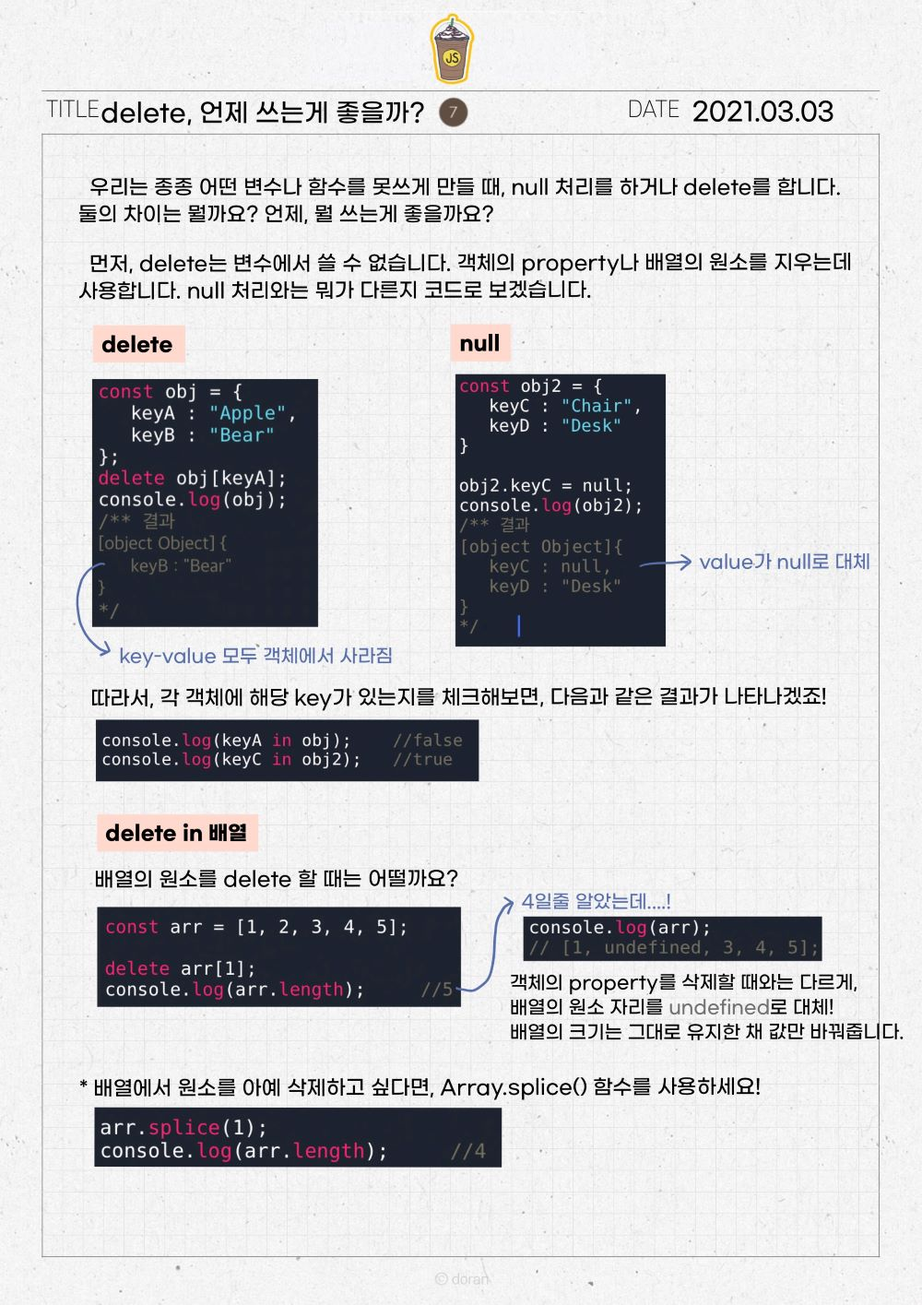
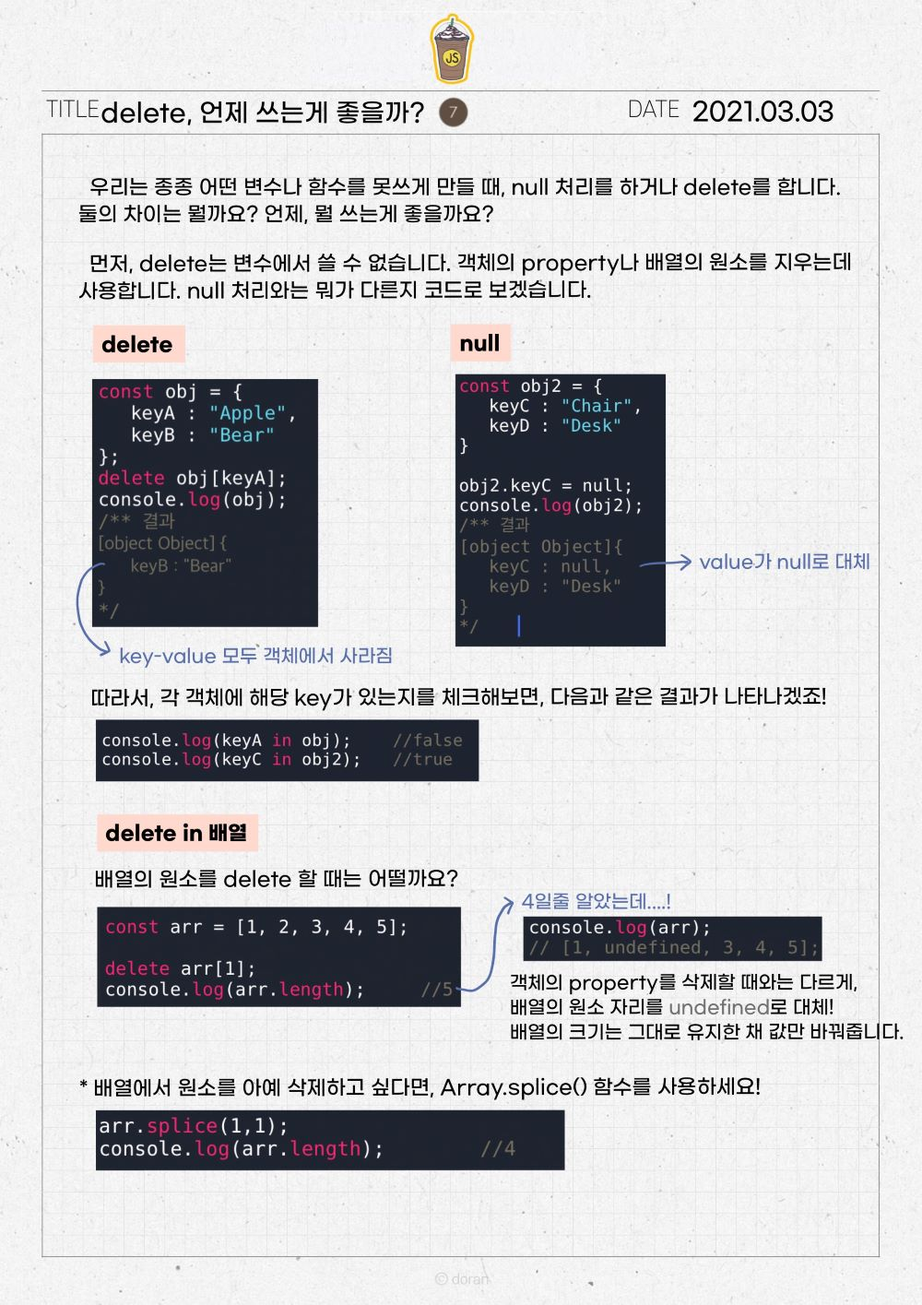
7. delete splice 예시문 수정

Changed region(s): [[0.093, 0.8396, 0.434, 0.9018], [0.465, 0.8396, 0.62, 0.9018]]

diff --git a/_book/pages/06.html b/_book/pages/06.html
@@ -287,7 +287,7 @@
     <script>
         var gitbook = gitbook || [];
         gitbook.push(function() {
-            gitbook.page.hasChanged({"page":{"title":"06. 함수를 정의하는 두가지 방법","level":"1.7","depth":1,"next":{"title":"07. delete, 언제 쓰는게 좋을까?","level":"1.8","depth":1,"path":"pages/07.md","ref":"pages/07.md","articles":[]},"previous":{"title":"05. 동일 연산자 제대로 쓰기","level":"1.6","depth":1,"path":"pages/05.md","ref":"pages/05.md","articles":[]},"dir":"ltr"},"config":{"gitbook":"*","theme":"default","variables":{"BASE_URL":"https://team-under-dev.github.io"},"plugins":["-sharing"],"pluginsConfig":{"highlight":{},"search":{},"lunr":{"maxIndexSize":1000000,"ignoreSpecialCharacters":false},"fontsettings":{"theme":"white","family":"sans","size":2},"theme-default":{"styles":{"website":"styles/website.css","pdf":"styles/pdf.css","epub":"styles/epub.css","mobi":"styles/mobi.css","ebook":"styles/ebook.css","print":"styles/print.css"},"showLevel":false}},"structure":{"langs":"LANGS.md","readme":"README.md","glossary":"GLOSSARY.md","summary":"SUMMARY.md"},"pdf":{"pageNumbers":true,"fontSize":12,"fontFamily":"Arial","paperSize":"a4","chapterMark":"pagebreak","pageBreaksBefore":"/","margin":{"right":62,"left":62,"top":56,"bottom":56}},"styles":{"website":"styles/website.css","pdf":"styles/pdf.css","epub":"styles/epub.css","mobi":"styles/mobi.css","ebook":"styles/ebook.css","print":"styles/print.css"}},"file":{"path":"pages/06.md","mtime":"2021-03-02T01:11:13.592Z","type":"markdown"},"gitbook":{"version":"3.2.3","time":"2021-03-03T00:04:25.139Z"},"basePath":"..","book":{"language":""}});
+            gitbook.page.hasChanged({"page":{"title":"06. 함수를 정의하는 두가지 방법","level":"1.7","depth":1,"next":{"title":"07. delete, 언제 쓰는게 좋을까?","level":"1.8","depth":1,"path":"pages/07.md","ref":"pages/07.md","articles":[]},"previous":{"title":"05. 동일 연산자 제대로 쓰기","level":"1.6","depth":1,"path":"pages/05.md","ref":"pages/05.md","articles":[]},"dir":"ltr"},"config":{"gitbook":"*","theme":"default","variables":{"BASE_URL":"https://team-under-dev.github.io"},"plugins":["-sharing"],"pluginsConfig":{"highlight":{},"search":{},"lunr":{"maxIndexSize":1000000,"ignoreSpecialCharacters":false},"fontsettings":{"theme":"white","family":"sans","size":2},"theme-default":{"styles":{"website":"styles/website.css","pdf":"styles/pdf.css","epub":"styles/epub.css","mobi":"styles/mobi.css","ebook":"styles/ebook.css","print":"styles/print.css"},"showLevel":false}},"structure":{"langs":"LANGS.md","readme":"README.md","glossary":"GLOSSARY.md","summary":"SUMMARY.md"},"pdf":{"pageNumbers":true,"fontSize":12,"fontFamily":"Arial","paperSize":"a4","chapterMark":"pagebreak","pageBreaksBefore":"/","margin":{"right":62,"left":62,"top":56,"bottom":56}},"styles":{"website":"styles/website.css","pdf":"styles/pdf.css","epub":"styles/epub.css","mobi":"styles/mobi.css","ebook":"styles/ebook.css","print":"styles/print.css"}},"file":{"path":"pages/06.md","mtime":"2021-03-03T00:05:04.584Z","type":"markdown"},"gitbook":{"version":"3.2.3","time":"2021-03-03T02:09:58.810Z"},"basePath":"..","book":{"language":""}});
         });
     </script>
 </div>

diff --git a/pages/06.html b/pages/06.html
@@ -287,7 +287,7 @@
     <script>
         var gitbook = gitbook || [];
         gitbook.push(function() {
-            gitbook.page.hasChanged({"page":{"title":"06. 함수를 정의하는 두가지 방법","level":"1.7","depth":1,"next":{"title":"07. delete, 언제 쓰는게 좋을까?","level":"1.8","depth":1,"path":"pages/07.md","ref":"pages/07.md","articles":[]},"previous":{"title":"05. 동일 연산자 제대로 쓰기","level":"1.6","depth":1,"path":"pages/05.md","ref":"pages/05.md","articles":[]},"dir":"ltr"},"config":{"gitbook":"*","theme":"default","variables":{"BASE_URL":"https://team-under-dev.github.io"},"plugins":["-sharing"],"pluginsConfig":{"highlight":{},"search":{},"lunr":{"maxIndexSize":1000000,"ignoreSpecialCharacters":false},"fontsettings":{"theme":"white","family":"sans","size":2},"theme-default":{"styles":{"website":"styles/website.css","pdf":"styles/pdf.css","epub":"styles/epub.css","mobi":"styles/mobi.css","ebook":"styles/ebook.css","print":"styles/print.css"},"showLevel":false}},"structure":{"langs":"LANGS.md","readme":"README.md","glossary":"GLOSSARY.md","summary":"SUMMARY.md"},"pdf":{"pageNumbers":true,"fontSize":12,"fontFamily":"Arial","paperSize":"a4","chapterMark":"pagebreak","pageBreaksBefore":"/","margin":{"right":62,"left":62,"top":56,"bottom":56}},"styles":{"website":"styles/website.css","pdf":"styles/pdf.css","epub":"styles/epub.css","mobi":"styles/mobi.css","ebook":"styles/ebook.css","print":"styles/print.css"}},"file":{"path":"pages/06.md","mtime":"2021-03-02T01:11:13.592Z","type":"markdown"},"gitbook":{"version":"3.2.3","time":"2021-03-03T00:04:25.139Z"},"basePath":"..","book":{"language":""}});
+            gitbook.page.hasChanged({"page":{"title":"06. 함수를 정의하는 두가지 방법","level":"1.7","depth":1,"next":{"title":"07. delete, 언제 쓰는게 좋을까?","level":"1.8","depth":1,"path":"pages/07.md","ref":"pages/07.md","articles":[]},"previous":{"title":"05. 동일 연산자 제대로 쓰기","level":"1.6","depth":1,"path":"pages/05.md","ref":"pages/05.md","articles":[]},"dir":"ltr"},"config":{"gitbook":"*","theme":"default","variables":{"BASE_URL":"https://team-under-dev.github.io"},"plugins":["-sharing"],"pluginsConfig":{"highlight":{},"search":{},"lunr":{"maxIndexSize":1000000,"ignoreSpecialCharacters":false},"fontsettings":{"theme":"white","family":"sans","size":2},"theme-default":{"styles":{"website":"styles/website.css","pdf":"styles/pdf.css","epub":"styles/epub.css","mobi":"styles/mobi.css","ebook":"styles/ebook.css","print":"styles/print.css"},"showLevel":false}},"structure":{"langs":"LANGS.md","readme":"README.md","glossary":"GLOSSARY.md","summary":"SUMMARY.md"},"pdf":{"pageNumbers":true,"fontSize":12,"fontFamily":"Arial","paperSize":"a4","chapterMark":"pagebreak","pageBreaksBefore":"/","margin":{"right":62,"left":62,"top":56,"bottom":56}},"styles":{"website":"styles/website.css","pdf":"styles/pdf.css","epub":"styles/epub.css","mobi":"styles/mobi.css","ebook":"styles/ebook.css","print":"styles/print.css"}},"file":{"path":"pages/06.md","mtime":"2021-03-03T00:05:04.584Z","type":"markdown"},"gitbook":{"version":"3.2.3","time":"2021-03-03T02:09:58.810Z"},"basePath":"..","book":{"language":""}});
         });
     </script>
 </div>

diff --git a/_book/pages/02.html b/_book/pages/02.html
@@ -287,7 +287,7 @@
     <script>
         var gitbook = gitbook || [];
         gitbook.push(function() {
-            gitbook.page.hasChanged({"page":{"title":"02. 자바스크립트 Scope 이해하기","level":"1.3","depth":1,"next":{"title":"03. var 대신 let만 쓰라구요? 왜요?","level":"1.4","depth":1,"path":"pages/03.md","ref":"pages/03.md","articles":[]},"previous":{"title":"01. 전역변수는 왜 나쁠까?","level":"1.2","depth":1,"path":"pages/01.md","ref":"pages/01.md","articles":[]},"dir":"ltr"},"config":{"gitbook":"*","theme":"default","variables":{"BASE_URL":"https://team-under-dev.github.io"},"plugins":["-sharing"],"pluginsConfig":{"highlight":{},"search":{},"lunr":{"maxIndexSize":1000000,"ignoreSpecialCharacters":false},"fontsettings":{"theme":"white","family":"sans","size":2},"theme-default":{"styles":{"website":"styles/website.css","pdf":"styles/pdf.css","epub":"styles/epub.css","mobi":"styles/mobi.css","ebook":"styles/ebook.css","print":"styles/print.css"},"showLevel":false}},"structure":{"langs":"LANGS.md","readme":"README.md","glossary":"GLOSSARY.md","summary":"SUMMARY.md"},"pdf":{"pageNumbers":true,"fontSize":12,"fontFamily":"Arial","paperSize":"a4","chapterMark":"pagebreak","pageBreaksBefore":"/","margin":{"right":62,"left":62,"top":56,"bottom":56}},"styles":{"website":"styles/website.css","pdf":"styles/pdf.css","epub":"styles/epub.css","mobi":"styles/mobi.css","ebook":"styles/ebook.css","print":"styles/print.css"}},"file":{"path":"pages/02.md","mtime":"2021-03-02T01:11:13.582Z","type":"markdown"},"gitbook":{"version":"3.2.3","time":"2021-03-03T00:04:25.139Z"},"basePath":"..","book":{"language":""}});
+            gitbook.page.hasChanged({"page":{"title":"02. 자바스크립트 Scope 이해하기","level":"1.3","depth":1,"next":{"title":"03. var 대신 let만 쓰라구요? 왜요?","level":"1.4","depth":1,"path":"pages/03.md","ref":"pages/03.md","articles":[]},"previous":{"title":"01. 전역변수는 왜 나쁠까?","level":"1.2","depth":1,"path":"pages/01.md","ref":"pages/01.md","articles":[]},"dir":"ltr"},"config":{"gitbook":"*","theme":"default","variables":{"BASE_URL":"https://team-under-dev.github.io"},"plugins":["-sharing"],"pluginsConfig":{"highlight":{},"search":{},"lunr":{"maxIndexSize":1000000,"ignoreSpecialCharacters":false},"fontsettings":{"theme":"white","family":"sans","size":2},"theme-default":{"styles":{"website":"styles/website.css","pdf":"styles/pdf.css","epub":"styles/epub.css","mobi":"styles/mobi.css","ebook":"styles/ebook.css","print":"styles/print.css"},"showLevel":false}},"structure":{"langs":"LANGS.md","readme":"README.md","glossary":"GLOSSARY.md","summary":"SUMMARY.md"},"pdf":{"pageNumbers":true,"fontSize":12,"fontFamily":"Arial","paperSize":"a4","chapterMark":"pagebreak","pageBreaksBefore":"/","margin":{"right":62,"left":62,"top":56,"bottom":56}},"styles":{"website":"styles/website.css","pdf":"styles/pdf.css","epub":"styles/epub.css","mobi":"styles/mobi.css","ebook":"styles/ebook.css","print":"styles/print.css"}},"file":{"path":"pages/02.md","mtime":"2021-03-03T00:05:04.572Z","type":"markdown"},"gitbook":{"version":"3.2.3","time":"2021-03-03T02:09:58.810Z"},"basePath":"..","book":{"language":""}});
         });
     </script>
 </div>

diff --git a/_book/pages/03.html b/_book/pages/03.html
@@ -288,7 +288,7 @@
     <script>
         var gitbook = gitbook || [];
         gitbook.push(function() {
-            gitbook.page.hasChanged({"page":{"title":"03. var 대신 let만 쓰라구요? 왜요?","level":"1.4","depth":1,"next":{"title":"04. 클로저가 도대체 뭘까?","level":"1.5","depth":1,"path":"pages/04.md","ref":"pages/04.md","articles":[]},"previous":{"title":"02. 자바스크립트 Scope 이해하기","level":"1.3","depth":1,"path":"pages/02.md","ref":"pages/02.md","articles":[]},"dir":"ltr"},"config":{"gitbook":"*","theme":"default","variables":{"BASE_URL":"https://team-under-dev.github.io"},"plugins":["-sharing"],"pluginsConfig":{"highlight":{},"search":{},"lunr":{"maxIndexSize":1000000,"ignoreSpecialCharacters":false},"fontsettings":{"theme":"white","family":"sans","size":2},"theme-default":{"styles":{"website":"styles/website.css","pdf":"styles/pdf.css","epub":"styles/epub.css","mobi":"styles/mobi.css","ebook":"styles/ebook.css","print":"styles/print.css"},"showLevel":false}},"structure":{"langs":"LANGS.md","readme":"README.md","glossary":"GLOSSARY.md","summary":"SUMMARY.md"},"pdf":{"pageNumbers":true,"fontSize":12,"fontFamily":"Arial","paperSize":"a4","chapterMark":"pagebreak","pageBreaksBefore":"/","margin":{"right":62,"left":62,"top":56,"bottom":56}},"styles":{"website":"styles/website.css","pdf":"styles/pdf.css","epub":"styles/epub.css","mobi":"styles/mobi.css","ebook":"styles/ebook.css","print":"styles/print.css"}},"file":{"path":"pages/03.md","mtime":"2021-03-02T01:11:13.584Z","type":"markdown"},"gitbook":{"version":"3.2.3","time":"2021-03-03T00:04:25.139Z"},"basePath":"..","book":{"language":""}});
+            gitbook.page.hasChanged({"page":{"title":"03. var 대신 let만 쓰라구요? 왜요?","level":"1.4","depth":1,"next":{"title":"04. 클로저가 도대체 뭘까?","level":"1.5","depth":1,"path":"pages/04.md","ref":"pages/04.md","articles":[]},"previous":{"title":"02. 자바스크립트 Scope 이해하기","level":"1.3","depth":1,"path":"pages/02.md","ref":"pages/02.md","articles":[]},"dir":"ltr"},"config":{"gitbook":"*","theme":"default","variables":{"BASE_URL":"https://team-under-dev.github.io"},"plugins":["-sharing"],"pluginsConfig":{"highlight":{},"search":{},"lunr":{"maxIndexSize":1000000,"ignoreSpecialCharacters":false},"fontsettings":{"theme":"white","family":"sans","size":2},"theme-default":{"styles":{"website":"styles/website.css","pdf":"styles/pdf.css","epub":"styles/epub.css","mobi":"styles/mobi.css","ebook":"styles/ebook.css","print":"styles/print.css"},"showLevel":false}},"structure":{"langs":"LANGS.md","readme":"README.md","glossary":"GLOSSARY.md","summary":"SUMMARY.md"},"pdf":{"pageNumbers":true,"fontSize":12,"fontFamily":"Arial","paperSize":"a4","chapterMark":"pagebreak","pageBreaksBefore":"/","margin":{"right":62,"left":62,"top":56,"bottom":56}},"styles":{"website":"styles/website.css","pdf":"styles/pdf.css","epub":"styles/epub.css","mobi":"styles/mobi.css","ebook":"styles/ebook.css","print":"styles/print.css"}},"file":{"path":"pages/03.md","mtime":"2021-03-03T00:05:04.576Z","type":"markdown"},"gitbook":{"version":"3.2.3","time":"2021-03-03T02:09:58.810Z"},"basePath":"..","book":{"language":""}});
         });
     </script>
 </div>

diff --git a/pages/02.html b/pages/02.html
@@ -287,7 +287,7 @@
     <script>
         var gitbook = gitbook || [];
         gitbook.push(function() {
-            gitbook.page.hasChanged({"page":{"title":"02. 자바스크립트 Scope 이해하기","level":"1.3","depth":1,"next":{"title":"03. var 대신 let만 쓰라구요? 왜요?","level":"1.4","depth":1,"path":"pages/03.md","ref":"pages/03.md","articles":[]},"previous":{"title":"01. 전역변수는 왜 나쁠까?","level":"1.2","depth":1,"path":"pages/01.md","ref":"pages/01.md","articles":[]},"dir":"ltr"},"config":{"gitbook":"*","theme":"default","variables":{"BASE_URL":"https://team-under-dev.github.io"},"plugins":["-sharing"],"pluginsConfig":{"highlight":{},"search":{},"lunr":{"maxIndexSize":1000000,"ignoreSpecialCharacters":false},"fontsettings":{"theme":"white","family":"sans","size":2},"theme-default":{"styles":{"website":"styles/website.css","pdf":"styles/pdf.css","epub":"styles/epub.css","mobi":"styles/mobi.css","ebook":"styles/ebook.css","print":"styles/print.css"},"showLevel":false}},"structure":{"langs":"LANGS.md","readme":"README.md","glossary":"GLOSSARY.md","summary":"SUMMARY.md"},"pdf":{"pageNumbers":true,"fontSize":12,"fontFamily":"Arial","paperSize":"a4","chapterMark":"pagebreak","pageBreaksBefore":"/","margin":{"right":62,"left":62,"top":56,"bottom":56}},"styles":{"website":"styles/website.css","pdf":"styles/pdf.css","epub":"styles/epub.css","mobi":"styles/mobi.css","ebook":"styles/ebook.css","print":"styles/print.css"}},"file":{"path":"pages/02.md","mtime":"2021-03-02T01:11:13.582Z","type":"markdown"},"gitbook":{"version":"3.2.3","time":"2021-03-03T00:04:25.139Z"},"basePath":"..","book":{"language":""}});
+            gitbook.page.hasChanged({"page":{"title":"02. 자바스크립트 Scope 이해하기","level":"1.3","depth":1,"next":{"title":"03. var 대신 let만 쓰라구요? 왜요?","level":"1.4","depth":1,"path":"pages/03.md","ref":"pages/03.md","articles":[]},"previous":{"title":"01. 전역변수는 왜 나쁠까?","level":"1.2","depth":1,"path":"pages/01.md","ref":"pages/01.md","articles":[]},"dir":"ltr"},"config":{"gitbook":"*","theme":"default","variables":{"BASE_URL":"https://team-under-dev.github.io"},"plugins":["-sharing"],"pluginsConfig":{"highlight":{},"search":{},"lunr":{"maxIndexSize":1000000,"ignoreSpecialCharacters":false},"fontsettings":{"theme":"white","family":"sans","size":2},"theme-default":{"styles":{"website":"styles/website.css","pdf":"styles/pdf.css","epub":"styles/epub.css","mobi":"styles/mobi.css","ebook":"styles/ebook.css","print":"styles/print.css"},"showLevel":false}},"structure":{"langs":"LANGS.md","readme":"README.md","glossary":"GLOSSARY.md","summary":"SUMMARY.md"},"pdf":{"pageNumbers":true,"fontSize":12,"fontFamily":"Arial","paperSize":"a4","chapterMark":"pagebreak","pageBreaksBefore":"/","margin":{"right":62,"left":62,"top":56,"bottom":56}},"styles":{"website":"styles/website.css","pdf":"styles/pdf.css","epub":"styles/epub.css","mobi":"styles/mobi.css","ebook":"styles/ebook.css","print":"styles/print.css"}},"file":{"path":"pages/02.md","mtime":"2021-03-03T00:05:04.572Z","type":"markdown"},"gitbook":{"version":"3.2.3","time":"2021-03-03T02:09:58.810Z"},"basePath":"..","book":{"language":""}});
         });
     </script>
 </div>

diff --git a/pages/03.html b/pages/03.html
@@ -288,7 +288,7 @@
     <script>
         var gitbook = gitbook || [];
         gitbook.push(function() {
-            gitbook.page.hasChanged({"page":{"title":"03. var 대신 let만 쓰라구요? 왜요?","level":"1.4","depth":1,"next":{"title":"04. 클로저가 도대체 뭘까?","level":"1.5","depth":1,"path":"pages/04.md","ref":"pages/04.md","articles":[]},"previous":{"title":"02. 자바스크립트 Scope 이해하기","level":"1.3","depth":1,"path":"pages/02.md","ref":"pages/02.md","articles":[]},"dir":"ltr"},"config":{"gitbook":"*","theme":"default","variables":{"BASE_URL":"https://team-under-dev.github.io"},"plugins":["-sharing"],"pluginsConfig":{"highlight":{},"search":{},"lunr":{"maxIndexSize":1000000,"ignoreSpecialCharacters":false},"fontsettings":{"theme":"white","family":"sans","size":2},"theme-default":{"styles":{"website":"styles/website.css","pdf":"styles/pdf.css","epub":"styles/epub.css","mobi":"styles/mobi.css","ebook":"styles/ebook.css","print":"styles/print.css"},"showLevel":false}},"structure":{"langs":"LANGS.md","readme":"README.md","glossary":"GLOSSARY.md","summary":"SUMMARY.md"},"pdf":{"pageNumbers":true,"fontSize":12,"fontFamily":"Arial","paperSize":"a4","chapterMark":"pagebreak","pageBreaksBefore":"/","margin":{"right":62,"left":62,"top":56,"bottom":56}},"styles":{"website":"styles/website.css","pdf":"styles/pdf.css","epub":"styles/epub.css","mobi":"styles/mobi.css","ebook":"styles/ebook.css","print":"styles/print.css"}},"file":{"path":"pages/03.md","mtime":"2021-03-02T01:11:13.584Z","type":"markdown"},"gitbook":{"version":"3.2.3","time":"2021-03-03T00:04:25.139Z"},"basePath":"..","book":{"language":""}});
+            gitbook.page.hasChanged({"page":{"title":"03. var 대신 let만 쓰라구요? 왜요?","level":"1.4","depth":1,"next":{"title":"04. 클로저가 도대체 뭘까?","level":"1.5","depth":1,"path":"pages/04.md","ref":"pages/04.md","articles":[]},"previous":{"title":"02. 자바스크립트 Scope 이해하기","level":"1.3","depth":1,"path":"pages/02.md","ref":"pages/02.md","articles":[]},"dir":"ltr"},"config":{"gitbook":"*","theme":"default","variables":{"BASE_URL":"https://team-under-dev.github.io"},"plugins":["-sharing"],"pluginsConfig":{"highlight":{},"search":{},"lunr":{"maxIndexSize":1000000,"ignoreSpecialCharacters":false},"fontsettings":{"theme":"white","family":"sans","size":2},"theme-default":{"styles":{"website":"styles/website.css","pdf":"styles/pdf.css","epub":"styles/epub.css","mobi":"styles/mobi.css","ebook":"styles/ebook.css","print":"styles/print.css"},"showLevel":false}},"structure":{"langs":"LANGS.md","readme":"README.md","glossary":"GLOSSARY.md","summary":"SUMMARY.md"},"pdf":{"pageNumbers":true,"fontSize":12,"fontFamily":"Arial","paperSize":"a4","chapterMark":"pagebreak","pageBreaksBefore":"/","margin":{"right":62,"left":62,"top":56,"bottom":56}},"styles":{"website":"styles/website.css","pdf":"styles/pdf.css","epub":"styles/epub.css","mobi":"styles/mobi.css","ebook":"styles/ebook.css","print":"styles/print.css"}},"file":{"path":"pages/03.md","mtime":"2021-03-03T00:05:04.576Z","type":"markdown"},"gitbook":{"version":"3.2.3","time":"2021-03-03T02:09:58.810Z"},"basePath":"..","book":{"language":""}});
         });
     </script>
 </div>

diff --git a/_book/pages/04.html b/_book/pages/04.html
@@ -288,7 +288,7 @@
     <script>
         var gitbook = gitbook || [];
         gitbook.push(function() {
-            gitbook.page.hasChanged({"page":{"title":"04. 클로저가 도대체 뭘까?","level":"1.5","depth":1,"next":{"title":"05. 동일 연산자 제대로 쓰기","level":"1.6","depth":1,"path":"pages/05.md","ref":"pages/05.md","articles":[]},"previous":{"title":"03. var 대신 let만 쓰라구요? 왜요?","level":"1.4","depth":1,"path":"pages/03.md","ref":"pages/03.md","articles":[]},"dir":"ltr"},"config":{"gitbook":"*","theme":"default","variables":{"BASE_URL":"https://team-under-dev.github.io"},"plugins":["-sharing"],"pluginsConfig":{"highlight":{},"search":{},"lunr":{"maxIndexSize":1000000,"ignoreSpecialCharacters":false},"fontsettings":{"theme":"white","family":"sans","size":2},"theme-default":{"styles":{"website":"styles/website.css","pdf":"styles/pdf.css","epub":"styles/epub.css","mobi":"styles/mobi.css","ebook":"styles/ebook.css","print":"styles/print.css"},"showLevel":false}},"structure":{"langs":"LANGS.md","readme":"README.md","glossary":"GLOSSARY.md","summary":"SUMMARY.md"},"pdf":{"pageNumbers":true,"fontSize":12,"fontFamily":"Arial","paperSize":"a4","chapterMark":"pagebreak","pageBreaksBefore":"/","margin":{"right":62,"left":62,"top":56,"bottom":56}},"styles":{"website":"styles/website.css","pdf":"styles/pdf.css","epub":"styles/epub.css","mobi":"styles/mobi.css","ebook":"styles/ebook.css","print":"styles/print.css"}},"file":{"path":"pages/04.md","mtime":"2021-03-02T01:11:13.587Z","type":"markdown"},"gitbook":{"version":"3.2.3","time":"2021-03-03T00:04:25.139Z"},"basePath":"..","book":{"language":""}});
+            gitbook.page.hasChanged({"page":{"title":"04. 클로저가 도대체 뭘까?","level":"1.5","depth":1,"next":{"title":"05. 동일 연산자 제대로 쓰기","level":"1.6","depth":1,"path":"pages/05.md","ref":"pages/05.md","articles":[]},"previous":{"title":"03. var 대신 let만 쓰라구요? 왜요?","level":"1.4","depth":1,"path":"pages/03.md","ref":"pages/03.md","articles":[]},"dir":"ltr"},"config":{"gitbook":"*","theme":"default","variables":{"BASE_URL":"https://team-under-dev.github.io"},"plugins":["-sharing"],"pluginsConfig":{"highlight":{},"search":{},"lunr":{"maxIndexSize":1000000,"ignoreSpecialCharacters":false},"fontsettings":{"theme":"white","family":"sans","size":2},"theme-default":{"styles":{"website":"styles/website.css","pdf":"styles/pdf.css","epub":"styles/epub.css","mobi":"styles/mobi.css","ebook":"styles/ebook.css","print":"styles/print.css"},"showLevel":false}},"structure":{"langs":"LANGS.md","readme":"README.md","glossary":"GLOSSARY.md","summary":"SUMMARY.md"},"pdf":{"pageNumbers":true,"fontSize":12,"fontFamily":"Arial","paperSize":"a4","chapterMark":"pagebreak","pageBreaksBefore":"/","margin":{"right":62,"left":62,"top":56,"bottom":56}},"styles":{"website":"styles/website.css","pdf":"styles/pdf.css","epub":"styles/epub.css","mobi":"styles/mobi.css","ebook":"styles/ebook.css","print":"styles/print.css"}},"file":{"path":"pages/04.md","mtime":"2021-03-03T00:05:04.579Z","type":"markdown"},"gitbook":{"version":"3.2.3","time":"2021-03-03T02:09:58.810Z"},"basePath":"..","book":{"language":""}});
         });
     </script>
 </div>

diff --git a/_book/pages/05.html b/_book/pages/05.html
@@ -287,7 +287,7 @@
     <script>
         var gitbook = gitbook || [];
         gitbook.push(function() {
-            gitbook.page.hasChanged({"page":{"title":"05. 동일 연산자 제대로 쓰기","level":"1.6","depth":1,"next":{"title":"06. 함수를 정의하는 두가지 방법","level":"1.7","depth":1,"path":"pages/06.md","ref":"pages/06.md","articles":[]},"previous":{"title":"04. 클로저가 도대체 뭘까?","level":"1.5","depth":1,"path":"pages/04.md","ref":"pages/04.md","articles":[]},"dir":"ltr"},"config":{"gitbook":"*","theme":"default","variables":{"BASE_URL":"https://team-under-dev.github.io"},"plugins":["-sharing"],"pluginsConfig":{"highlight":{},"search":{},"lunr":{"maxIndexSize":1000000,"ignoreSpecialCharacters":false},"fontsettings":{"theme":"white","family":"sans","size":2},"theme-default":{"styles":{"website":"styles/website.css","pdf":"styles/pdf.css","epub":"styles/epub.css","mobi":"styles/mobi.css","ebook":"styles/ebook.css","print":"styles/print.css"},"showLevel":false}},"structure":{"langs":"LANGS.md","readme":"README.md","glossary":"GLOSSARY.md","summary":"SUMMARY.md"},"pdf":{"pageNumbers":true,"fontSize":12,"fontFamily":"Arial","paperSize":"a4","chapterMark":"pagebreak","pageBreaksBefore":"/","margin":{"right":62,"left":62,"top":56,"bottom":56}},"styles":{"website":"styles/website.css","pdf":"styles/pdf.css","epub":"styles/epub.css","mobi":"styles/mobi.css","ebook":"styles/ebook.css","print":"styles/print.css"}},"file":{"path":"pages/05.md","mtime":"2021-03-02T01:11:13.589Z","type":"markdown"},"gitbook":{"version":"3.2.3","time":"2021-03-03T00:04:25.139Z"},"basePath":"..","book":{"language":""}});
+            gitbook.page.hasChanged({"page":{"title":"05. 동일 연산자 제대로 쓰기","level":"1.6","depth":1,"next":{"title":"06. 함수를 정의하는 두가지 방법","level":"1.7","depth":1,"path":"pages/06.md","ref":"pages/06.md","articles":[]},"previous":{"title":"04. 클로저가 도대체 뭘까?","level":"1.5","depth":1,"path":"pages/04.md","ref":"pages/04.md","articles":[]},"dir":"ltr"},"config":{"gitbook":"*","theme":"default","variables":{"BASE_URL":"https://team-under-dev.github.io"},"plugins":["-sharing"],"pluginsConfig":{"highlight":{},"search":{},"lunr":{"maxIndexSize":1000000,"ignoreSpecialCharacters":false},"fontsettings":{"theme":"white","family":"sans","size":2},"theme-default":{"styles":{"website":"styles/website.css","pdf":"styles/pdf.css","epub":"styles/epub.css","mobi":"styles/mobi.css","ebook":"styles/ebook.css","print":"styles/print.css"},"showLevel":false}},"structure":{"langs":"LANGS.md","readme":"README.md","glossary":"GLOSSARY.md","summary":"SUMMARY.md"},"pdf":{"pageNumbers":true,"fontSize":12,"fontFamily":"Arial","paperSize":"a4","chapterMark":"pagebreak","pageBreaksBefore":"/","margin":{"right":62,"left":62,"top":56,"bottom":56}},"styles":{"website":"styles/website.css","pdf":"styles/pdf.css","epub":"styles/epub.css","mobi":"styles/mobi.css","ebook":"styles/ebook.css","print":"styles/print.css"}},"file":{"path":"pages/05.md","mtime":"2021-03-03T00:05:04.581Z","type":"markdown"},"gitbook":{"version":"3.2.3","time":"2021-03-03T02:09:58.810Z"},"basePath":"..","book":{"language":""}});
         });
     </script>
 </div>

diff --git a/pages/04.html b/pages/04.html
@@ -288,7 +288,7 @@
     <script>
         var gitbook = gitbook || [];
         gitbook.push(function() {
-            gitbook.page.hasChanged({"page":{"title":"04. 클로저가 도대체 뭘까?","level":"1.5","depth":1,"next":{"title":"05. 동일 연산자 제대로 쓰기","level":"1.6","depth":1,"path":"pages/05.md","ref":"pages/05.md","articles":[]},"previous":{"title":"03. var 대신 let만 쓰라구요? 왜요?","level":"1.4","depth":1,"path":"pages/03.md","ref":"pages/03.md","articles":[]},"dir":"ltr"},"config":{"gitbook":"*","theme":"default","variables":{"BASE_URL":"https://team-under-dev.github.io"},"plugins":["-sharing"],"pluginsConfig":{"highlight":{},"search":{},"lunr":{"maxIndexSize":1000000,"ignoreSpecialCharacters":false},"fontsettings":{"theme":"white","family":"sans","size":2},"theme-default":{"styles":{"website":"styles/website.css","pdf":"styles/pdf.css","epub":"styles/epub.css","mobi":"styles/mobi.css","ebook":"styles/ebook.css","print":"styles/print.css"},"showLevel":false}},"structure":{"langs":"LANGS.md","readme":"README.md","glossary":"GLOSSARY.md","summary":"SUMMARY.md"},"pdf":{"pageNumbers":true,"fontSize":12,"fontFamily":"Arial","paperSize":"a4","chapterMark":"pagebreak","pageBreaksBefore":"/","margin":{"right":62,"left":62,"top":56,"bottom":56}},"styles":{"website":"styles/website.css","pdf":"styles/pdf.css","epub":"styles/epub.css","mobi":"styles/mobi.css","ebook":"styles/ebook.css","print":"styles/print.css"}},"file":{"path":"pages/04.md","mtime":"2021-03-02T01:11:13.587Z","type":"markdown"},"gitbook":{"version":"3.2.3","time":"2021-03-03T00:04:25.139Z"},"basePath":"..","book":{"language":""}});
+            gitbook.page.hasChanged({"page":{"title":"04. 클로저가 도대체 뭘까?","level":"1.5","depth":1,"next":{"title":"05. 동일 연산자 제대로 쓰기","level":"1.6","depth":1,"path":"pages/05.md","ref":"pages/05.md","articles":[]},"previous":{"title":"03. var 대신 let만 쓰라구요? 왜요?","level":"1.4","depth":1,"path":"pages/03.md","ref":"pages/03.md","articles":[]},"dir":"ltr"},"config":{"gitbook":"*","theme":"default","variables":{"BASE_URL":"https://team-under-dev.github.io"},"plugins":["-sharing"],"pluginsConfig":{"highlight":{},"search":{},"lunr":{"maxIndexSize":1000000,"ignoreSpecialCharacters":false},"fontsettings":{"theme":"white","family":"sans","size":2},"theme-default":{"styles":{"website":"styles/website.css","pdf":"styles/pdf.css","epub":"styles/epub.css","mobi":"styles/mobi.css","ebook":"styles/ebook.css","print":"styles/print.css"},"showLevel":false}},"structure":{"langs":"LANGS.md","readme":"README.md","glossary":"GLOSSARY.md","summary":"SUMMARY.md"},"pdf":{"pageNumbers":true,"fontSize":12,"fontFamily":"Arial","paperSize":"a4","chapterMark":"pagebreak","pageBreaksBefore":"/","margin":{"right":62,"left":62,"top":56,"bottom":56}},"styles":{"website":"styles/website.css","pdf":"styles/pdf.css","epub":"styles/epub.css","mobi":"styles/mobi.css","ebook":"styles/ebook.css","print":"styles/print.css"}},"file":{"path":"pages/04.md","mtime":"2021-03-03T00:05:04.579Z","type":"markdown"},"gitbook":{"version":"3.2.3","time":"2021-03-03T02:09:58.810Z"},"basePath":"..","book":{"language":""}});
         });
     </script>
 </div>

diff --git a/pages/05.html b/pages/05.html
@@ -287,7 +287,7 @@
     <script>
         var gitbook = gitbook || [];
         gitbook.push(function() {
-            gitbook.page.hasChanged({"page":{"title":"05. 동일 연산자 제대로 쓰기","level":"1.6","depth":1,"next":{"title":"06. 함수를 정의하는 두가지 방법","level":"1.7","depth":1,"path":"pages/06.md","ref":"pages/06.md","articles":[]},"previous":{"title":"04. 클로저가 도대체 뭘까?","level":"1.5","depth":1,"path":"pages/04.md","ref":"pages/04.md","articles":[]},"dir":"ltr"},"config":{"gitbook":"*","theme":"default","variables":{"BASE_URL":"https://team-under-dev.github.io"},"plugins":["-sharing"],"pluginsConfig":{"highlight":{},"search":{},"lunr":{"maxIndexSize":1000000,"ignoreSpecialCharacters":false},"fontsettings":{"theme":"white","family":"sans","size":2},"theme-default":{"styles":{"website":"styles/website.css","pdf":"styles/pdf.css","epub":"styles/epub.css","mobi":"styles/mobi.css","ebook":"styles/ebook.css","print":"styles/print.css"},"showLevel":false}},"structure":{"langs":"LANGS.md","readme":"README.md","glossary":"GLOSSARY.md","summary":"SUMMARY.md"},"pdf":{"pageNumbers":true,"fontSize":12,"fontFamily":"Arial","paperSize":"a4","chapterMark":"pagebreak","pageBreaksBefore":"/","margin":{"right":62,"left":62,"top":56,"bottom":56}},"styles":{"website":"styles/website.css","pdf":"styles/pdf.css","epub":"styles/epub.css","mobi":"styles/mobi.css","ebook":"styles/ebook.css","print":"styles/print.css"}},"file":{"path":"pages/05.md","mtime":"2021-03-02T01:11:13.589Z","type":"markdown"},"gitbook":{"version":"3.2.3","time":"2021-03-03T00:04:25.139Z"},"basePath":"..","book":{"language":""}});
+            gitbook.page.hasChanged({"page":{"title":"05. 동일 연산자 제대로 쓰기","level":"1.6","depth":1,"next":{"title":"06. 함수를 정의하는 두가지 방법","level":"1.7","depth":1,"path":"pages/06.md","ref":"pages/06.md","articles":[]},"previous":{"title":"04. 클로저가 도대체 뭘까?","level":"1.5","depth":1,"path":"pages/04.md","ref":"pages/04.md","articles":[]},"dir":"ltr"},"config":{"gitbook":"*","theme":"default","variables":{"BASE_URL":"https://team-under-dev.github.io"},"plugins":["-sharing"],"pluginsConfig":{"highlight":{},"search":{},"lunr":{"maxIndexSize":1000000,"ignoreSpecialCharacters":false},"fontsettings":{"theme":"white","family":"sans","size":2},"theme-default":{"styles":{"website":"styles/website.css","pdf":"styles/pdf.css","epub":"styles/epub.css","mobi":"styles/mobi.css","ebook":"styles/ebook.css","print":"styles/print.css"},"showLevel":false}},"structure":{"langs":"LANGS.md","readme":"README.md","glossary":"GLOSSARY.md","summary":"SUMMARY.md"},"pdf":{"pageNumbers":true,"fontSize":12,"fontFamily":"Arial","paperSize":"a4","chapterMark":"pagebreak","pageBreaksBefore":"/","margin":{"right":62,"left":62,"top":56,"bottom":56}},"styles":{"website":"styles/website.css","pdf":"styles/pdf.css","epub":"styles/epub.css","mobi":"styles/mobi.css","ebook":"styles/ebook.css","print":"styles/print.css"}},"file":{"path":"pages/05.md","mtime":"2021-03-03T00:05:04.581Z","type":"markdown"},"gitbook":{"version":"3.2.3","time":"2021-03-03T02:09:58.810Z"},"basePath":"..","book":{"language":""}});
         });
     </script>
 </div>

diff --git a/_book/pages/01.html b/_book/pages/01.html
@@ -288,7 +288,7 @@
     <script>
         var gitbook = gitbook || [];
         gitbook.push(function() {
-            gitbook.page.hasChanged({"page":{"title":"01. 전역변수는 왜 나쁠까?","level":"1.2","depth":1,"next":{"title":"02. 자바스크립트 Scope 이해하기","level":"1.3","depth":1,"path":"pages/02.md","ref":"pages/02.md","articles":[]},"previous":{"title":"Introduction","level":"1.1","depth":1,"path":"README.md","ref":"README.md","articles":[]},"dir":"ltr"},"config":{"gitbook":"*","theme":"default","variables":{"BASE_URL":"https://team-under-dev.github.io"},"plugins":["-sharing"],"pluginsConfig":{"highlight":{},"search":{},"lunr":{"maxIndexSize":1000000,"ignoreSpecialCharacters":false},"fontsettings":{"theme":"white","family":"sans","size":2},"theme-default":{"styles":{"website":"styles/website.css","pdf":"styles/pdf.css","epub":"styles/epub.css","mobi":"styles/mobi.css","ebook":"styles/ebook.css","print":"styles/print.css"},"showLevel":false}},"structure":{"langs":"LANGS.md","readme":"README.md","glossary":"GLOSSARY.md","summary":"SUMMARY.md"},"pdf":{"pageNumbers":true,"fontSize":12,"fontFamily":"Arial","paperSize":"a4","chapterMark":"pagebreak","pageBreaksBefore":"/","margin":{"right":62,"left":62,"top":56,"bottom":56}},"styles":{"website":"styles/website.css","pdf":"styles/pdf.css","epub":"styles/epub.css","mobi":"styles/mobi.css","ebook":"styles/ebook.css","print":"styles/print.css"}},"file":{"path":"pages/01.md","mtime":"2021-03-02T01:11:13.579Z","type":"markdown"},"gitbook":{"version":"3.2.3","time":"2021-03-03T00:04:25.139Z"},"basePath":"..","book":{"language":""}});
+            gitbook.page.hasChanged({"page":{"title":"01. 전역변수는 왜 나쁠까?","level":"1.2","depth":1,"next":{"title":"02. 자바스크립트 Scope 이해하기","level":"1.3","depth":1,"path":"pages/02.md","ref":"pages/02.md","articles":[]},"previous":{"title":"Introduction","level":"1.1","depth":1,"path":"README.md","ref":"README.md","articles":[]},"dir":"ltr"},"config":{"gitbook":"*","theme":"default","variables":{"BASE_URL":"https://team-under-dev.github.io"},"plugins":["-sharing"],"pluginsConfig":{"highlight":{},"search":{},"lunr":{"maxIndexSize":1000000,"ignoreSpecialCharacters":false},"fontsettings":{"theme":"white","family":"sans","size":2},"theme-default":{"styles":{"website":"styles/website.css","pdf":"styles/pdf.css","epub":"styles/epub.css","mobi":"styles/mobi.css","ebook":"styles/ebook.css","print":"styles/print.css"},"showLevel":false}},"structure":{"langs":"LANGS.md","readme":"README.md","glossary":"GLOSSARY.md","summary":"SUMMARY.md"},"pdf":{"pageNumbers":true,"fontSize":12,"fontFamily":"Arial","paperSize":"a4","chapterMark":"pagebreak","pageBreaksBefore":"/","margin":{"right":62,"left":62,"top":56,"bottom":56}},"styles":{"website":"styles/website.css","pdf":"styles/pdf.css","epub":"styles/epub.css","mobi":"styles/mobi.css","ebook":"styles/ebook.css","print":"styles/print.css"}},"file":{"path":"pages/01.md","mtime":"2021-03-03T00:05:04.568Z","type":"markdown"},"gitbook":{"version":"3.2.3","time":"2021-03-03T02:09:58.810Z"},"basePath":"..","book":{"language":""}});
         });
     </script>
 </div>

diff --git a/pages/01.html b/pages/01.html
@@ -288,7 +288,7 @@
     <script>
         var gitbook = gitbook || [];
         gitbook.push(function() {
-            gitbook.page.hasChanged({"page":{"title":"01. 전역변수는 왜 나쁠까?","level":"1.2","depth":1,"next":{"title":"02. 자바스크립트 Scope 이해하기","level":"1.3","depth":1,"path":"pages/02.md","ref":"pages/02.md","articles":[]},"previous":{"title":"Introduction","level":"1.1","depth":1,"path":"README.md","ref":"README.md","articles":[]},"dir":"ltr"},"config":{"gitbook":"*","theme":"default","variables":{"BASE_URL":"https://team-under-dev.github.io"},"plugins":["-sharing"],"pluginsConfig":{"highlight":{},"search":{},"lunr":{"maxIndexSize":1000000,"ignoreSpecialCharacters":false},"fontsettings":{"theme":"white","family":"sans","size":2},"theme-default":{"styles":{"website":"styles/website.css","pdf":"styles/pdf.css","epub":"styles/epub.css","mobi":"styles/mobi.css","ebook":"styles/ebook.css","print":"styles/print.css"},"showLevel":false}},"structure":{"langs":"LANGS.md","readme":"README.md","glossary":"GLOSSARY.md","summary":"SUMMARY.md"},"pdf":{"pageNumbers":true,"fontSize":12,"fontFamily":"Arial","paperSize":"a4","chapterMark":"pagebreak","pageBreaksBefore":"/","margin":{"right":62,"left":62,"top":56,"bottom":56}},"styles":{"website":"styles/website.css","pdf":"styles/pdf.css","epub":"styles/epub.css","mobi":"styles/mobi.css","ebook":"styles/ebook.css","print":"styles/print.css"}},"file":{"path":"pages/01.md","mtime":"2021-03-02T01:11:13.579Z","type":"markdown"},"gitbook":{"version":"3.2.3","time":"2021-03-03T00:04:25.139Z"},"basePath":"..","book":{"language":""}});
+            gitbook.page.hasChanged({"page":{"title":"01. 전역변수는 왜 나쁠까?","level":"1.2","depth":1,"next":{"title":"02. 자바스크립트 Scope 이해하기","level":"1.3","depth":1,"path":"pages/02.md","ref":"pages/02.md","articles":[]},"previous":{"title":"Introduction","level":"1.1","depth":1,"path":"README.md","ref":"README.md","articles":[]},"dir":"ltr"},"config":{"gitbook":"*","theme":"default","variables":{"BASE_URL":"https://team-under-dev.github.io"},"plugins":["-sharing"],"pluginsConfig":{"highlight":{},"search":{},"lunr":{"maxIndexSize":1000000,"ignoreSpecialCharacters":false},"fontsettings":{"theme":"white","family":"sans","size":2},"theme-default":{"styles":{"website":"styles/website.css","pdf":"styles/pdf.css","epub":"styles/epub.css","mobi":"styles/mobi.css","ebook":"styles/ebook.css","print":"styles/print.css"},"showLevel":false}},"structure":{"langs":"LANGS.md","readme":"README.md","glossary":"GLOSSARY.md","summary":"SUMMARY.md"},"pdf":{"pageNumbers":true,"fontSize":12,"fontFamily":"Arial","paperSize":"a4","chapterMark":"pagebreak","pageBreaksBefore":"/","margin":{"right":62,"left":62,"top":56,"bottom":56}},"styles":{"website":"styles/website.css","pdf":"styles/pdf.css","epub":"styles/epub.css","mobi":"styles/mobi.css","ebook":"styles/ebook.css","print":"styles/print.css"}},"file":{"path":"pages/01.md","mtime":"2021-03-03T00:05:04.568Z","type":"markdown"},"gitbook":{"version":"3.2.3","time":"2021-03-03T02:09:58.810Z"},"basePath":"..","book":{"language":""}});
         });
     </script>
 </div>
